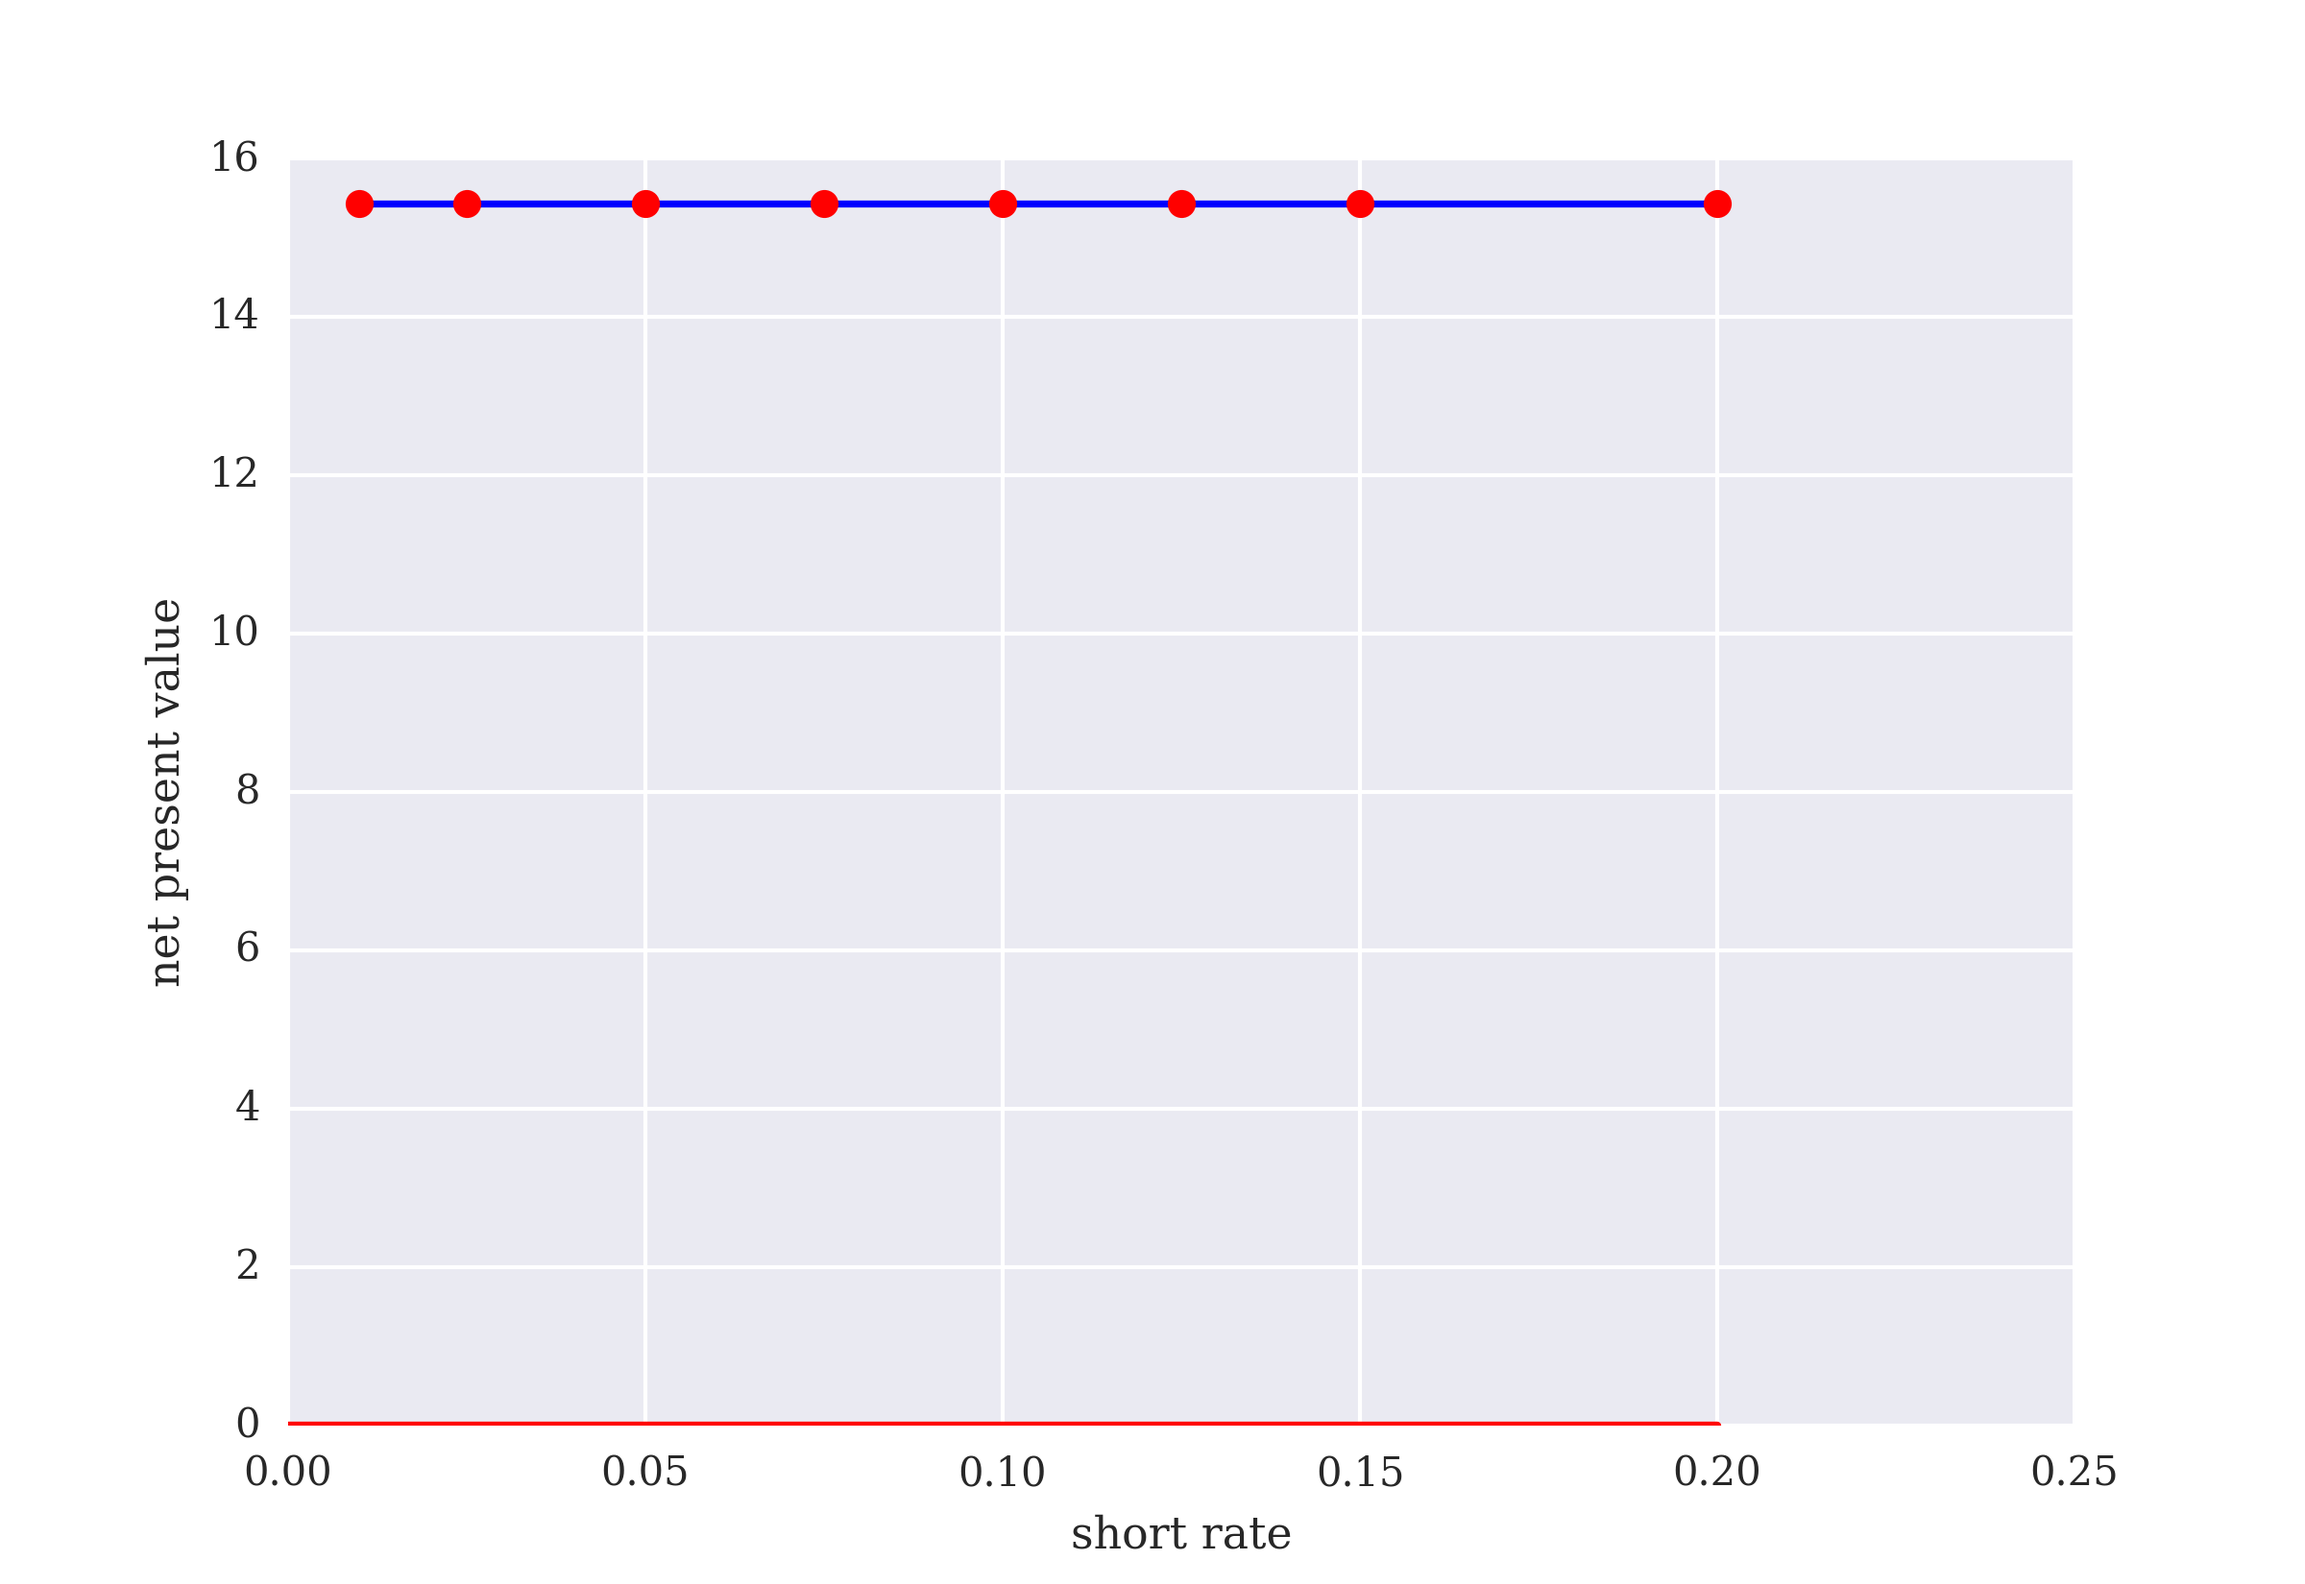
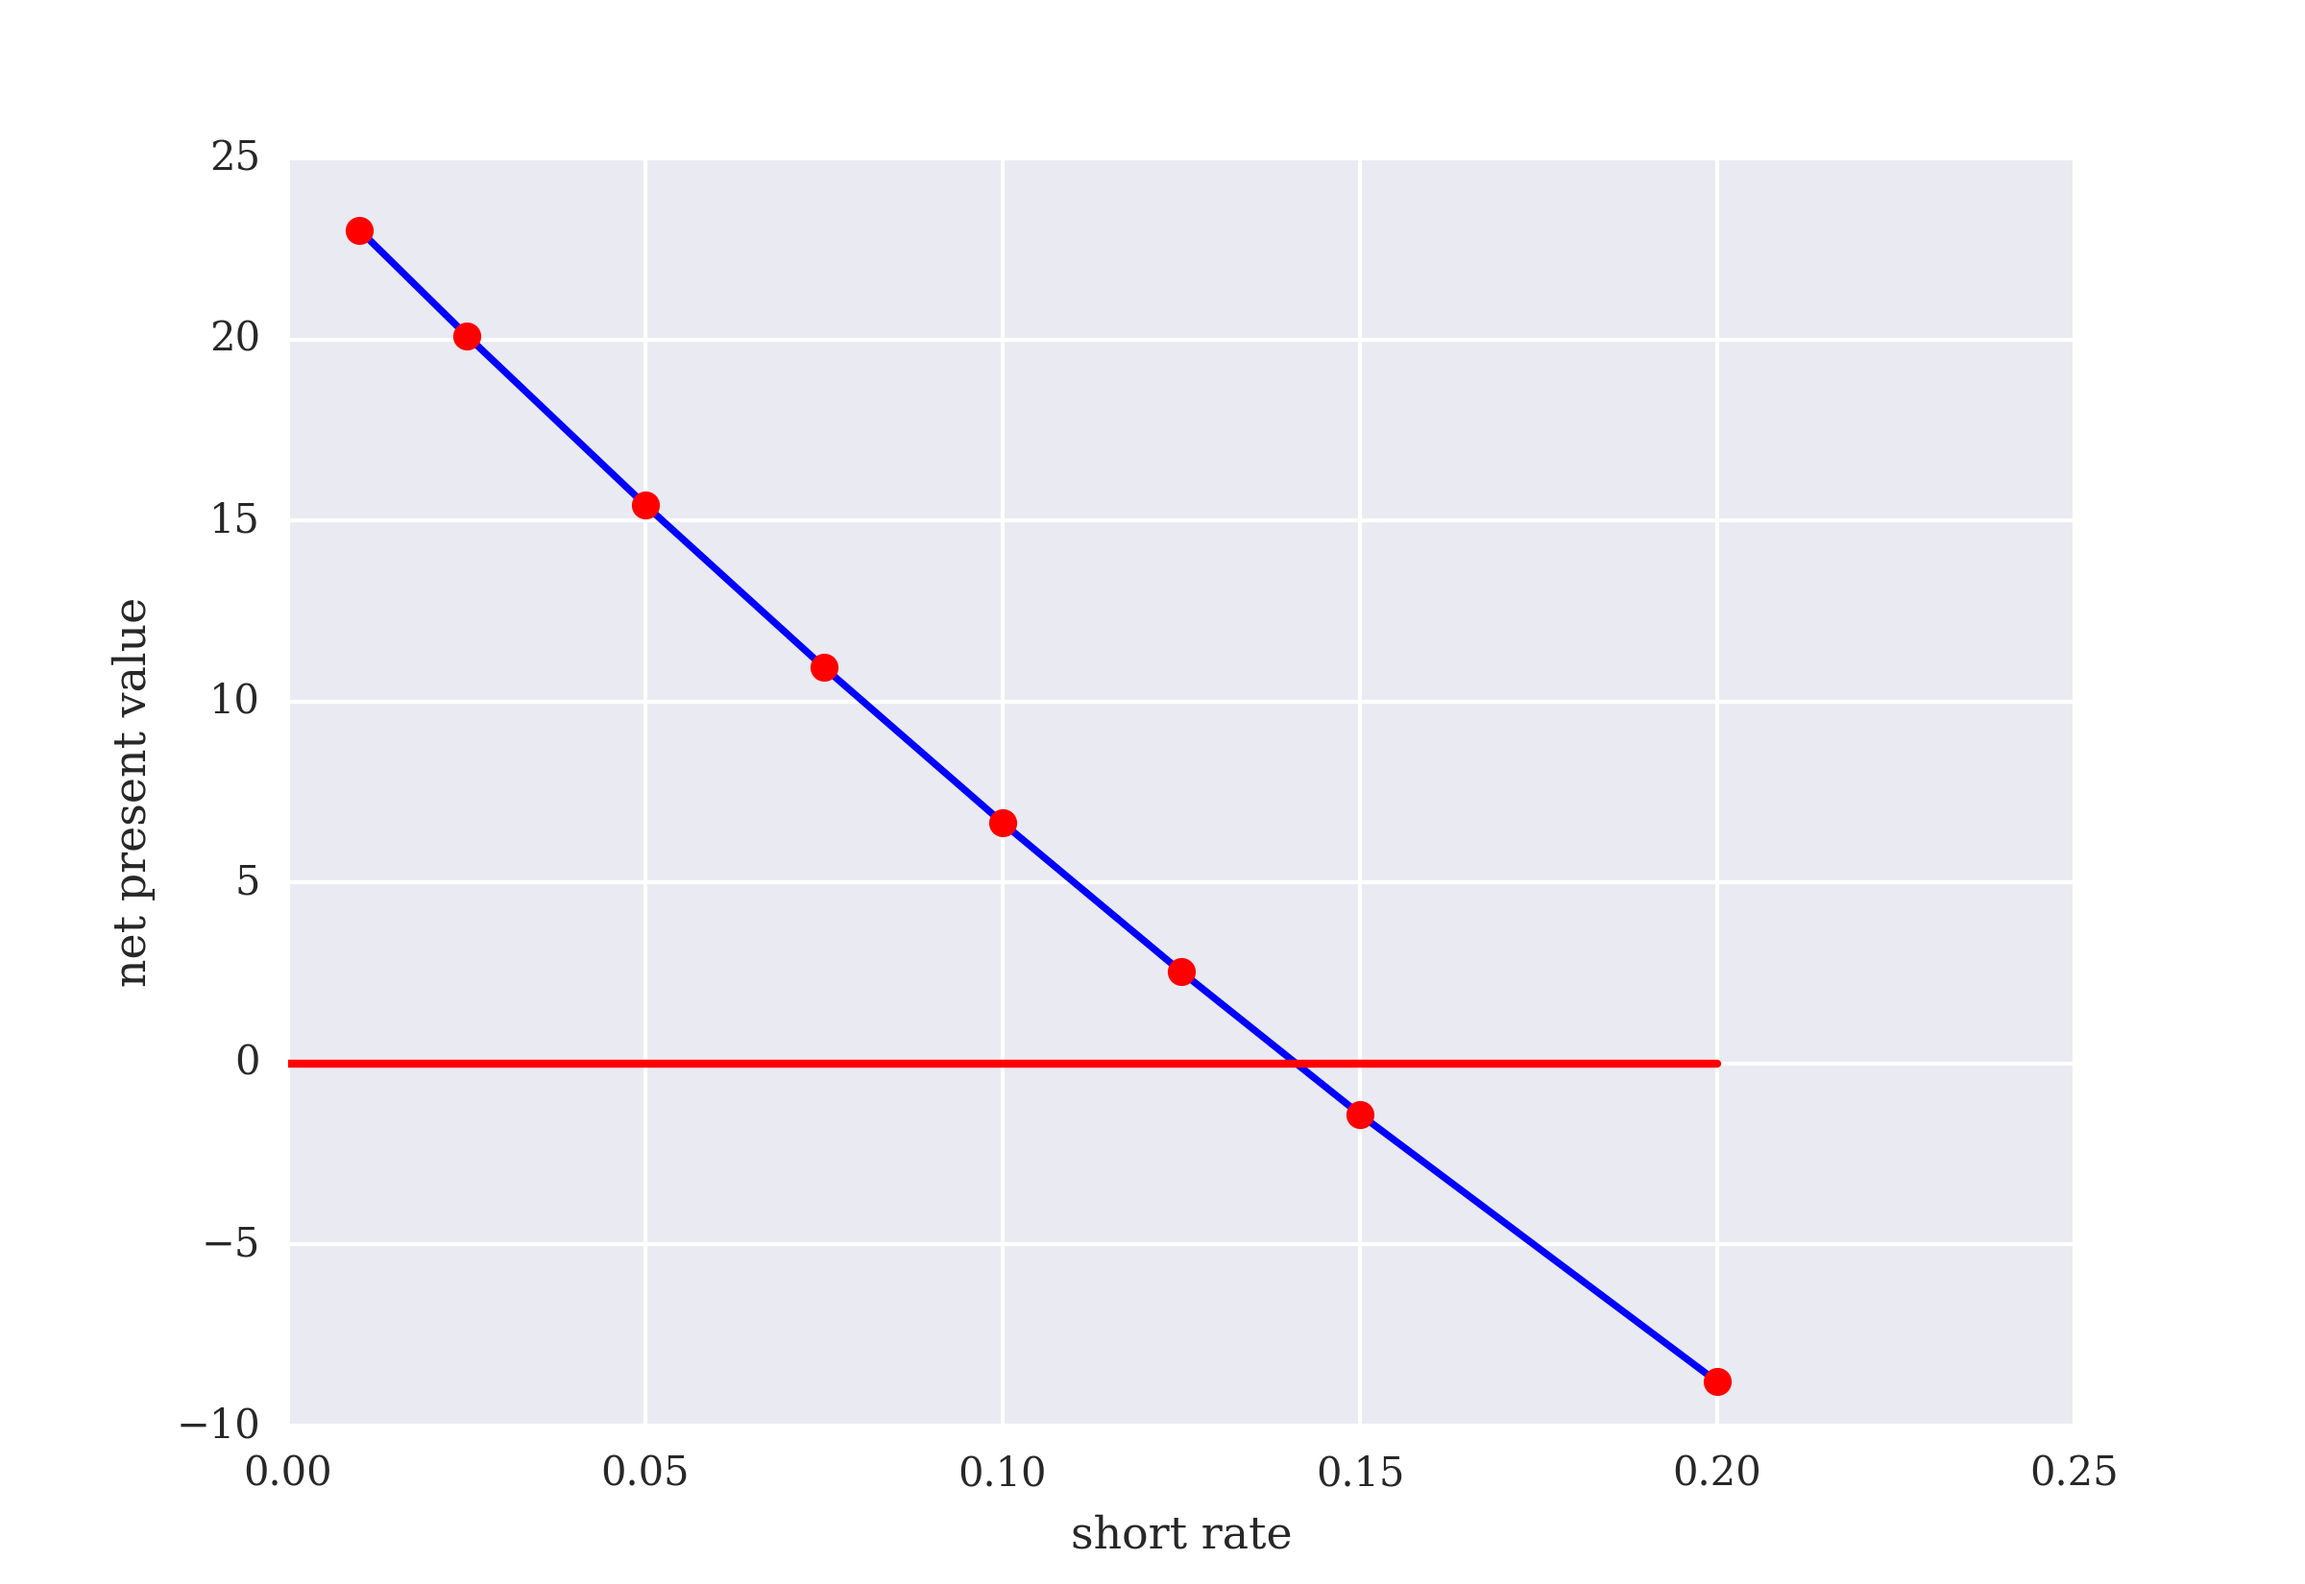
finally finished ch13, gonna try to chunk through this as best we can

diff --git a/13ch_scrap.py b/13ch_scrap.py
@@ -11,6 +11,8 @@ import matplotlib.pyplot as plt
 import seaborn as sns; sns.set()
 import matplotlib as mpl
 mpl.rcParams['font.family'] = 'serif'
+import traits.api as trapi
+import traitsui.api as trui
 
 PATH = '/home/ubuntu/workspace/python_for_finance/png/ch13/'
 
@@ -196,10 +198,9 @@ class cash_flow_series(object):
 
 class cfs_sensitivity(cash_flow_series):
     def npv_sensitivity(self, short_rates):
-        sr = short_rate('r', 0.05)
         npvs = []
         for rate in short_rates:
-            sr.rate = rate
+            self.short_rate = short_rate('r', rate)
             npvs.append(self.net_present_value())
         return np.array(npvs)
 
@@ -231,7 +232,6 @@ def short_rate_class():
     plt.savefig(PATH + 'short_rate2.png', dpi=300)
     plt.close()
 
-    pdb.set_trace()
     sr.rate = 0.05
     cash_flows = np.array([-100, 50, 75])
     time_list = [0.0, 1.0, 2.0]
@@ -241,7 +241,7 @@ def short_rate_class():
     print(np.sum(disc_facts * cash_flows))
     sr.rate = 0.15
     print(np.sum(sr.get_discount_factors(time_list) * cash_flows))
-    
+
     sr.rate = 0.05
     cfs = cash_flow_series('cfs', time_list, cash_flows, sr)
     print(cfs.cash_flows)
@@ -249,6 +249,7 @@ def short_rate_class():
     print(cfs.present_value_list())
     print(cfs.net_present_value())
 
+    pdb.set_trace()
     cfs_sens = cfs_sensitivity('cfs', time_list, cash_flows, sr)
     short_rates = [0.01, 0.025, 0.05, 0.075, 0.1, 0.125, 0.15, 0.2]
     npvs = cfs_sens.npv_sensitivity(short_rates)
@@ -262,21 +263,67 @@ def short_rate_class():
     plt.savefig(PATH + 'cash_flow.png', dpi=300)
     plt.close()
 
-# class short_rate_g(trapi.HasTraits):
-#     name = trapi.Str
-#     rate = trapi.Float
-#     time_list = trapi.Array(dtype=np.float, shape=(5,))
-#     def get_discount_factors(self):
-#         return np.exp(-self.rate * self.time_list)
+class short_rate_g(trapi.HasTraits):
+    name = trapi.Str
+    rate = trapi.Float
+    time_list = trapi.Array(dtype=np.float, shape=(1,5))
+    disc_list = trapi.Array(dtype=np.float, shape=(1,5))
+    update = trapi.Button
+    
+    def _update_fired(self):
+        self.disc_list = np.exp(-self.rate * self.time_list)
+        v = trui.View(trui.Group(trui.Item(name='name'),
+                    trui.Item(name='rate'),
+                    trui.Item(name='time_list', label = 'Insert Time List Here'),
+                    trui.Item(name='update', show_label=False),
+                    trui.Item(name='disc_list', label='Press Update for Factors'),
+                    show_border=True, label='Calculate Discount Factors'),
+                    buttons = [trui.OKButton, trui.CancelButton],
+                    resizable = True)
+    
+    def get_discount_factors(self):
+        return np.exp(-self.rate * self.time_list)
+        
+class cash_flow_series_g(trapi.HasTraits):
+    name = trapi.Str
+    short_rate = trapi.Range(0.0, 0.5, 0.05)
+    time_list = trapi.Array(dtype=np.float, shape=(1,6))
+    present_values = trapi.Array(dtype=np.float, shape=(1,6))
+    cash_flows = trapi.Array(dtype=np.float, shape=(1,6))
+    disc_values = trapi.Array(dtype=np.float, shape=(1,6))
+    net_present_value = trapi.Float
+    update = trapi.Button
+    
+    def _update_fired(self):
+        self.disc_values = np.exp(-self.rate * self.time_list)
+        self.present_values = self.disc_values * self.cash_flows
+        self.net_present_value = np.sum(self.present_values)
+        v = trui.View(trui.Group(trui.Item(name='name'),
+                    trui.Item(name='short_rate'),
+                    trui.Item(name='time_list', label = 'Time List'),
+                    trui.Item(name='cash_flows', label = 'Cash Flows'),
+                    trui.Item(name='update', show_label=False),
+                    trui.Item(name='disc_values', label='Discount Factors'),
+                    trui.Item(name='present_values', label='Present Values'),
+                    trui.Item(name='net_present_value', label='Net Present Value'),
+                    show_border=True, label='Calculate Present Values'),
+                    buttons = [trui.OKButton, trui.CancelButton],
+                    resizable = True)
+    
+    def get_discount_factors(self):
+        return np.exp(-self.rate * self.time_list)
+    
 
 def short_rate_gui():
     sr = short_rate_g()
+    sr.configure_traits()
     sr.name = 'sr_class'
     sr.rate = 0.05
     sr.time_list = [0.0, 0.5, 1.0, 1.5, 2.0]
     print(sr.rate)
     print(sr.time_list)
     print(sr.get_discount_factors())
+    sr._update_fired()
 
 
 if __name__ == "__main__":
